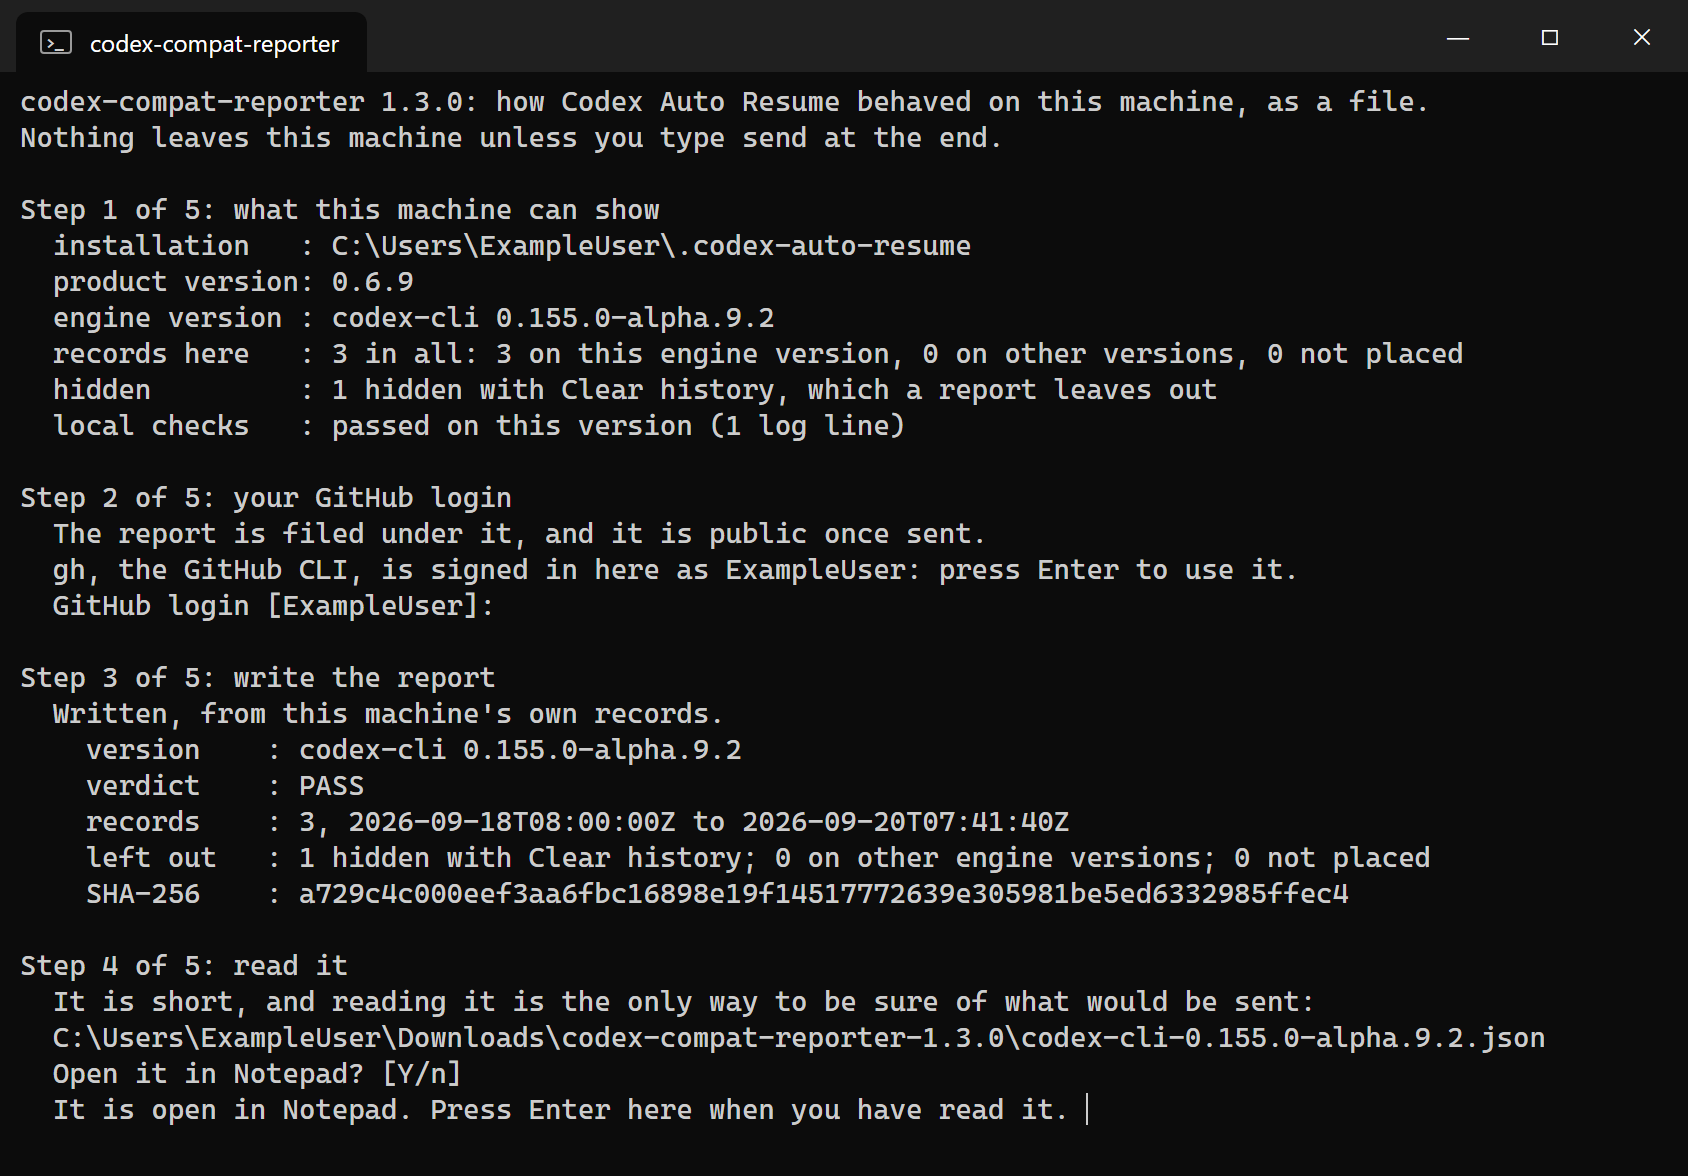
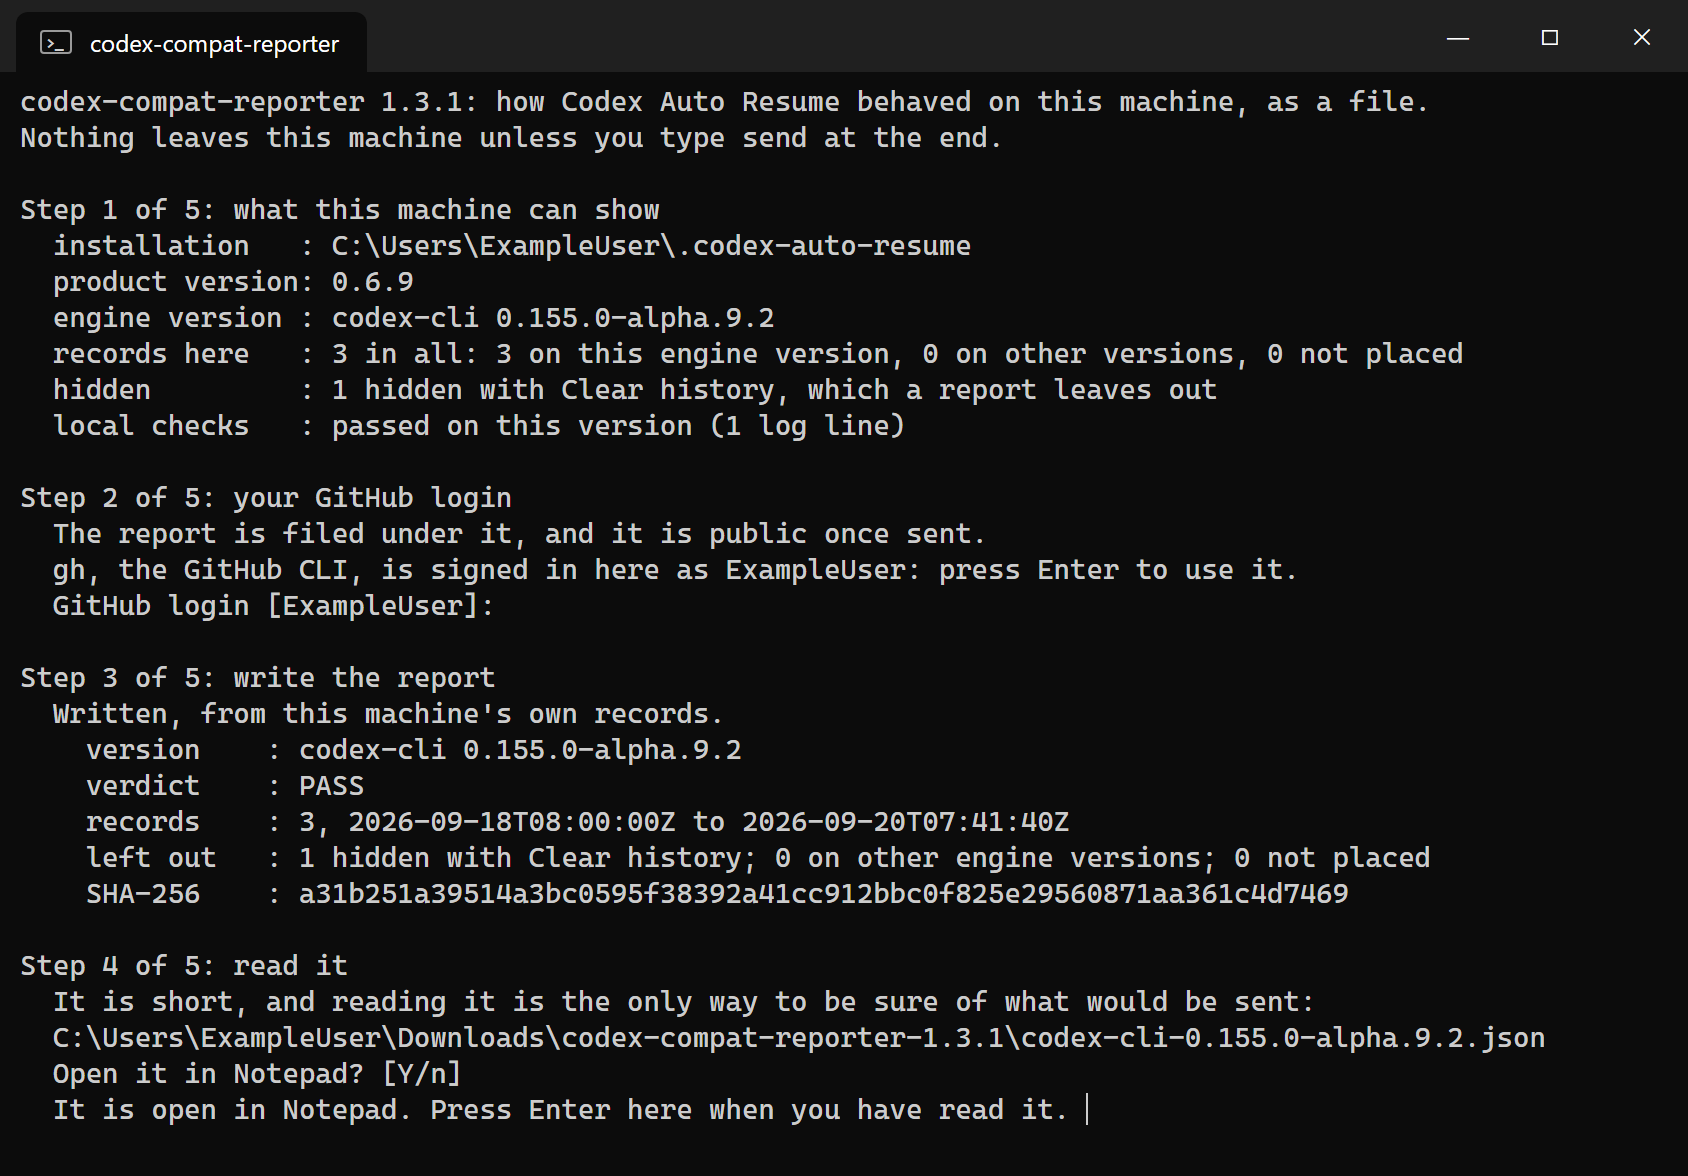
1.3.1: no warning on every run, and the project's owner is told where their evidence goes
- find_gh's docstring held an invalid escape, so Python printed a SyntaxWarning in the reporter's
  window on every run. Every Python file is now compiled with warnings as errors by a test.
- Sending under the login that owns the project stopped halfway with "rename that repository":
  GitHub cannot fork a repository into its owner's account, and the owner's machine is not a
  community report. It is now refused before any call to GitHub, saying the evidence goes into
  the compatibility data with the maintainer's tool.
- The module's description said a version shows "the number of machines"; it is the number of
  reports, one per GitHub login per Codex version, as the README already says.
- The pictures show 1.3.1.

Changed region(s): [[0.1848, 0.7347, 0.8009, 0.7653], [0.5853, 0.8571, 0.6161, 0.8878]]

diff --git a/codex_compat_report.py b/codex_compat_report.py
@@ -23,7 +23,7 @@ leaves the machine.
 What it cannot do: make a Codex version "verified" for anybody else. A report has a grade of its
 own, Reported: it stands beside the ladder of four words - verified, checked, compatible, failed
 here - and never on it, and never raises a version's tier. It is shown beside the version with the
-number of machines that said the same thing, and a version whose own evidence says nothing stays
+number of reports that said the same thing, and a version whose own evidence says nothing stays
 compatible however many reports arrive. The tool measures; the project recomputes every derived
 field from the measurements when the report arrives, so a hand-edited conclusion does not survive.
 Nothing here proves a file was not made up on the machine that sent it, and the project says so out
@@ -54,7 +54,7 @@ import sys
 import tempfile
 import time
 
-__version__ = "1.3.0"
+__version__ = "1.3.1"
 
 REPO = "songyb111-gachon/codex-auto-resume-windows"
 HOST = "github.com"                             # every GitHub call names it; GH_HOST never redirects one
@@ -842,7 +842,7 @@ def _same_folder(entry: pathlib.Path, folder: pathlib.Path) -> bool:
 
 def find_gh(path: str | None = None):
     """gh.exe from an absolute PATH entry, or None. Never the current folder, nor the folder this
-    script sits in, however PATH spells them (an absolute entry, `\.`, `..`, an 8.3 name): Windows
+    script sits in, however PATH spells them (`.`, `.\\`, `..`, an absolute path, an 8.3 name): Windows
     would otherwise start a gh.exe that sits beside a downloaded script before the real one."""
     unsafe = [pathlib.Path.cwd(), pathlib.Path(__file__).resolve().parent]
     for entry in (os.environ.get("PATH", "") if path is None else path).split(os.pathsep):
@@ -1002,6 +1002,12 @@ def prepare_submit(path, *, login=None, sha256=None, say=print):
     if login and login != filed_as:
         raise Refused("The file is filed under %s, not %s." % (filed_as, login))
     login = filed_as
+    if login.casefold() == REPO.split("/")[0].casefold():
+        # GitHub cannot fork a repository into the account that owns it, and the owner's machine is
+        # not a community report: its evidence goes into the compatibility data itself.
+        raise Refused("%s owns %s, so this machine's evidence is the project's own: it goes into the "
+                      "compatibility data with the maintainer's tool, not in as a community report. "
+                      "Nothing was sent." % (login, REPO))
     digest = hashlib.sha256(raw).hexdigest()
     if sha256 and sha256.strip().lower() != digest:
         raise Refused("%s has changed: its SHA-256 is %s, not %s." % (path, digest, sha256))

diff --git a/tests/test_report.py b/tests/test_report.py
@@ -861,6 +861,21 @@ class SubmitTests(unittest.TestCase):
         gh, code, _out, err = self.submit(str(self.file), "--yes", "--login", "other")
         self.assertEqual((code, gh.calls), (2, []))
 
+    def test_the_projects_owner_is_refused_before_any_call_to_github(self):
+        """GitHub cannot fork a repository into its owner's account, and the owner's machine is the
+        project's own evidence: the refusal says where it goes, not "rename that repository"."""
+        owner = REPO.split("/")[0]
+        for n, login in enumerate((owner, owner.upper())):
+            with self.subTest(login):
+                mine = self.work / ("owner-%d.json" % n)
+                code, _out, err = run_main("report", "--login", login, "--out", str(mine))
+                self.assertEqual(code, 0, err)
+                gh, code, _out, err = self.submit(str(mine), "--yes", login=login)
+                self.assertEqual((code, gh.calls), (2, []))
+                self.assertIn("owns %s" % REPO, err)
+                self.assertIn("maintainer's tool", err)
+                self.assertNotIn("Rename", err)
+
     def test_a_file_filed_under_the_login_in_another_letter_case_says_how_github_spells_it(self):
         """Not "signed in as someone, so ... Someone cannot be sent": it is the same account, and the
         project takes the report only under someone (community_check.py compares the folder exactly)."""

diff --git a/tests/test_distribution.py b/tests/test_distribution.py
@@ -247,6 +247,17 @@ class ReleaseZipTests(unittest.TestCase):
     def build(self, folder, **keywords):
         return make_release.build(reporter.__version__, pathlib.Path(folder), keywords.pop("epoch", EPOCH), **keywords)
 
+    def test_every_python_file_compiles_without_a_warning(self):
+        """A warning at compile time is printed in the reporter's window on every run (1.3.0 printed
+        an invalid escape in a docstring), and a later Python makes some of them errors."""
+        import warnings
+        files = sorted(path for path in ROOT.rglob("*.py") if "__pycache__" not in path.parts)
+        self.assertIn(ROOT / "codex_compat_report.py", files)
+        for path in files:
+            with self.subTest(path.relative_to(ROOT).as_posix()), warnings.catch_warnings():
+                warnings.simplefilter("error")
+                compile(path.read_text(encoding="utf-8"), str(path), "exec")
+
     def test_the_same_tree_gives_the_same_bytes(self):
         with tempfile.TemporaryDirectory() as one, tempfile.TemporaryDirectory() as two:
             first, second = self.build(one), self.build(two)
